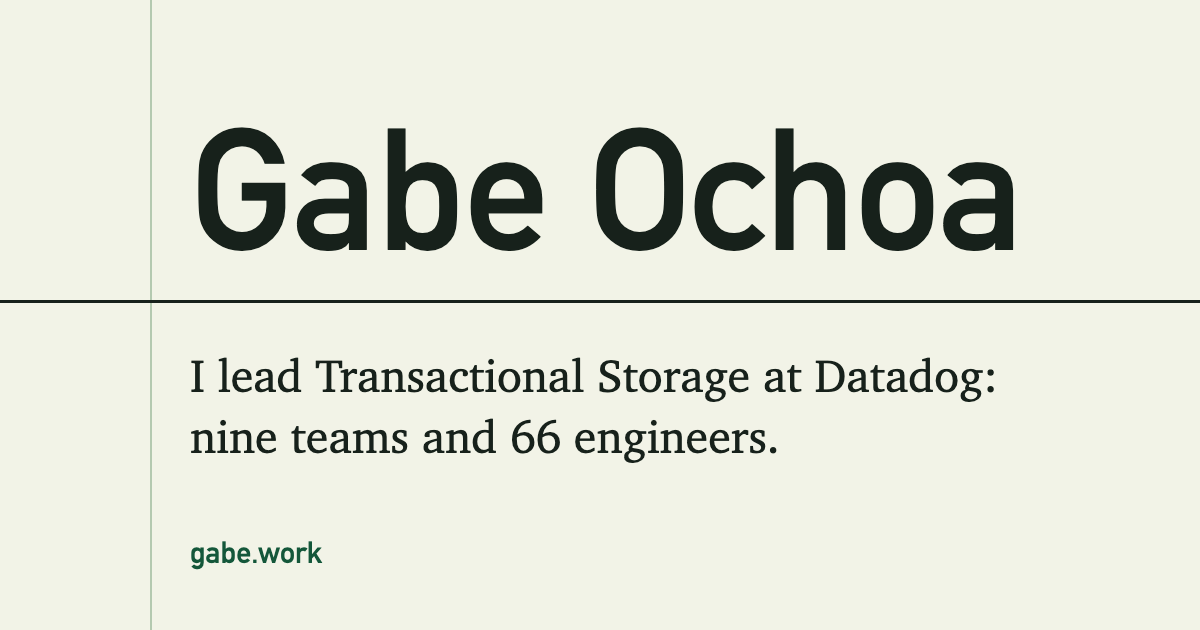
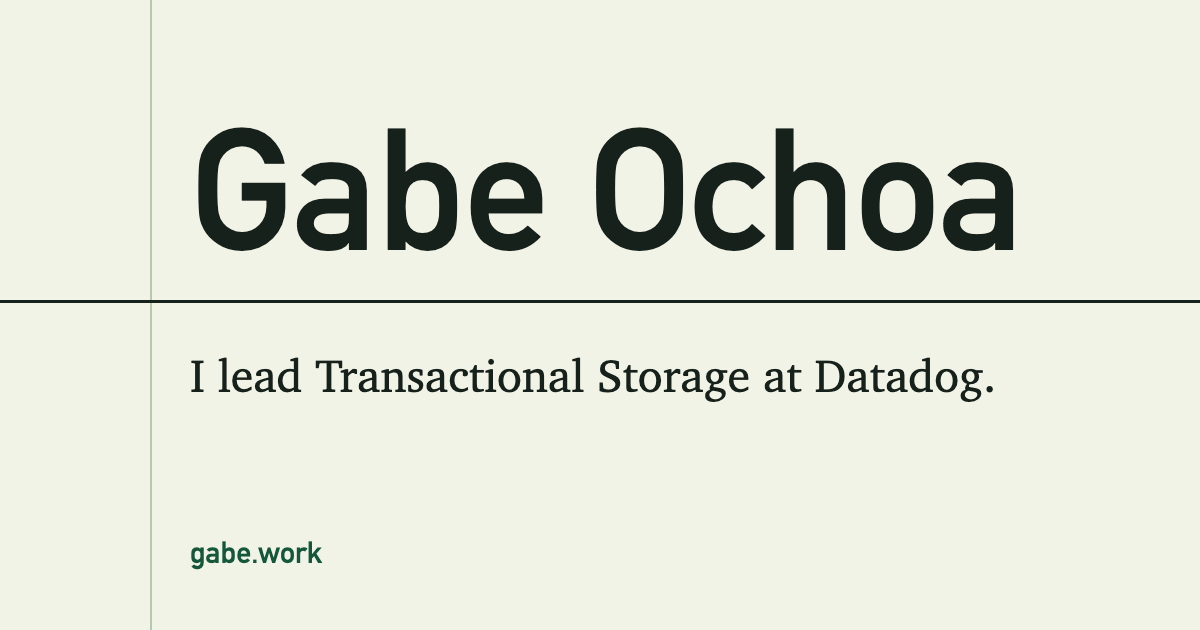
Drop team and engineer counts from the intro
They are internal specifics and pull attention from the narrative. The lede
now says what the org runs. Social image and PRINCIPLES updated to match.

Changed region(s): [[0.1542, 0.6635, 0.6475, 0.7238]]

diff --git a/index.html b/index.html
@@ -90,8 +90,7 @@
     <section id="about" class="intro">
       <p class="intro__lede">
         I lead Transactional Storage at <a href="https://www.datadoghq.com" rel="noopener" target="_blank">Datadog</a>,
-        which is nine teams and 66 engineers running the application data platforms that sit under
-        every Datadog product: Postgres, an in-house key-value database, search, replication, and
+        running the application data platforms that sit under every Datadog product: Postgres, an in-house key-value database, search, replication, and
         caching.
       </p>
       <p>

diff --git a/PRINCIPLES.md b/PRINCIPLES.md
@@ -46,8 +46,11 @@ from Gabe's blog (gabe.work/how). Read it before writing copy. The short version
   database," never the codename. Verify before assuming a product name is
   public, because some ship under a different name than they were built under.
   Check the employer's own product pages and docs, not your memory.
+- No team or engineer counts for Gabe's current org. They are internal
+  specifics and they pull attention from the narrative. Some ambiguity helps.
+  Describe what the org runs instead. (Gabe, 2026-11-18.)
 - What is safe to be specific about: performance and cost characteristics
-  ("2x load in under 10 minutes", "30% lower cost"), headcounts, org shape,
+  ("2x load in under 10 minutes", "30% lower cost"), headcounts and org shape for past roles,
   interview counts, and timelines. Be concrete with these. The line is names and
   unfuzzed money, not specificity itself.
 
